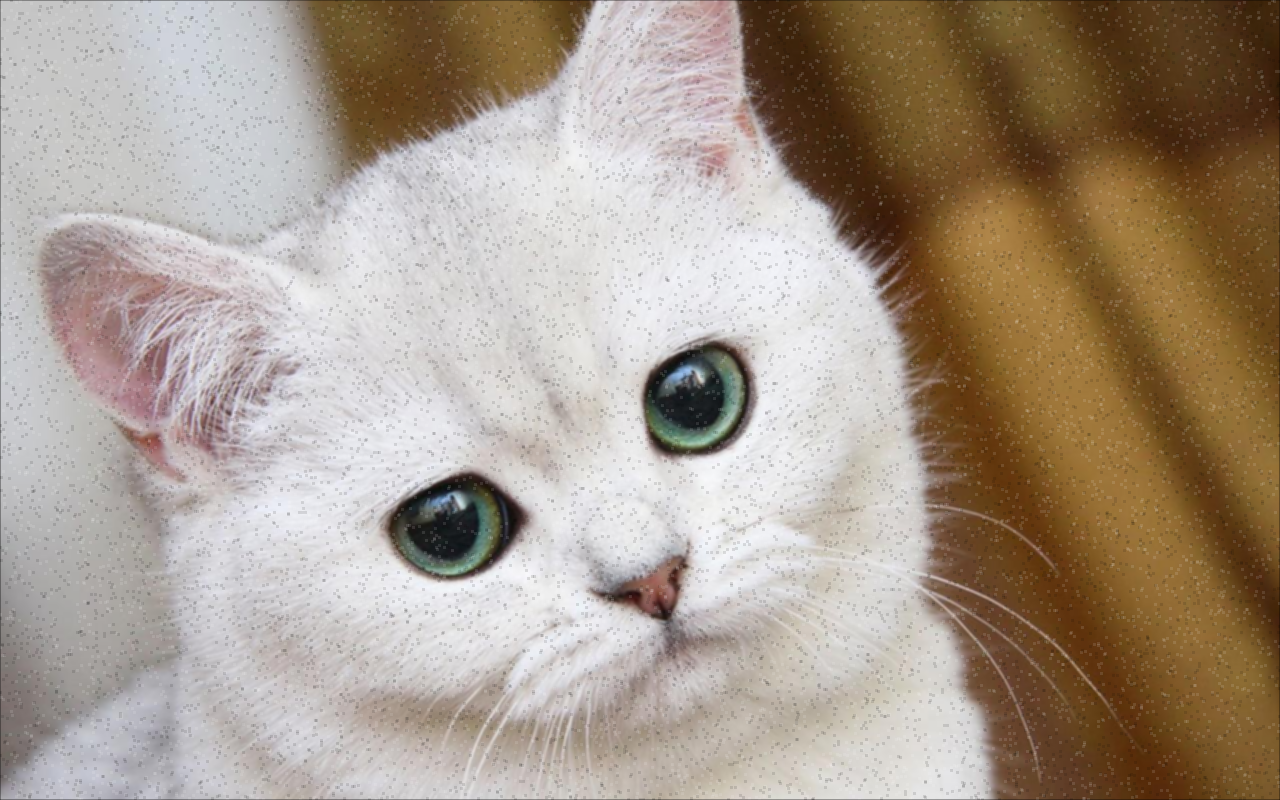
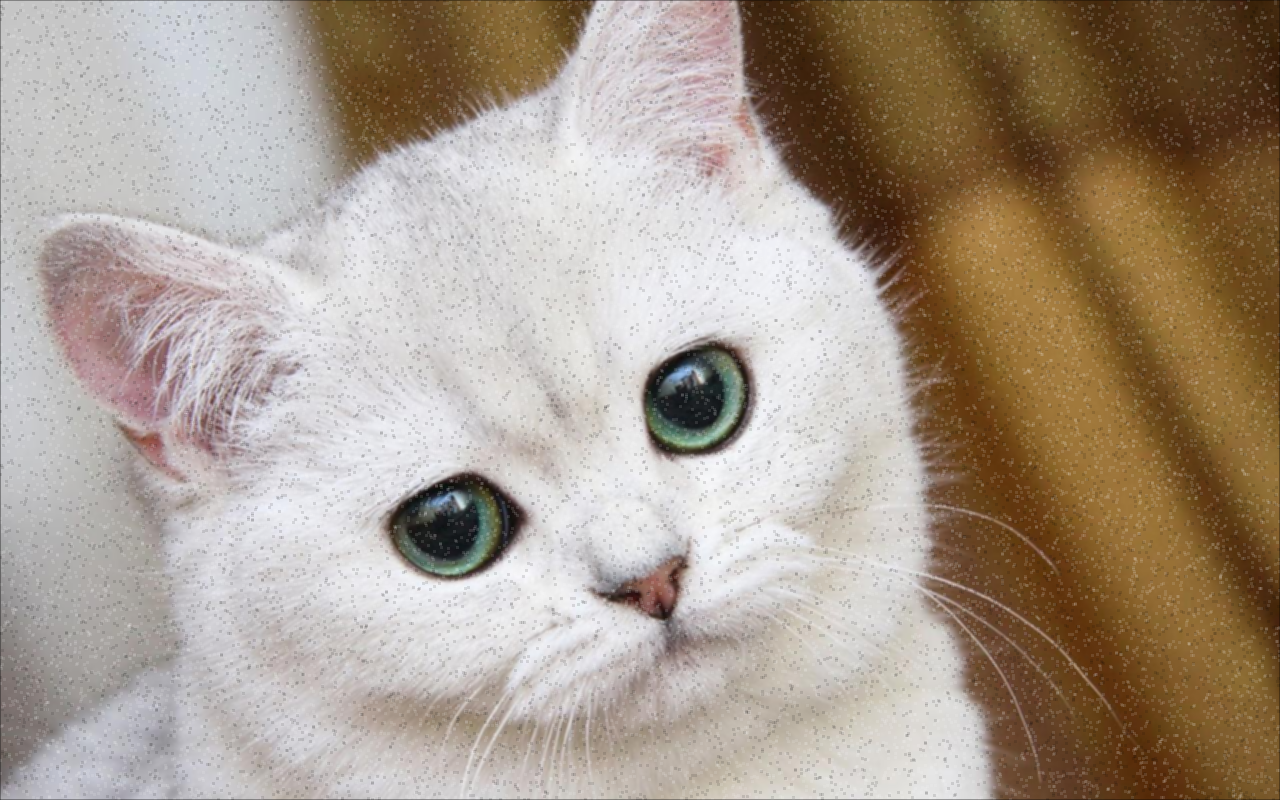
add filter radius

diff --git a/lab-2/noise.py b/lab-2/noise.py
@@ -11,10 +11,13 @@ def init_arg_parser():
     parser = argparse.ArgumentParser()
     parser.add_argument('-path', default='input/cat.png', type=str)
     parser.add_argument('-intensity', default=1.0, type=float)
+    parser.add_argument('-radius', default=1, type=int)
     return parser
 
 
 def salt_and_pepper_noise(image, intensity):
+    if intensity > 50:
+        raise ValueError('Too high noise intensity')
     result_image = image.copy()
     noise_map = numpy.random.uniform(0, 100, (image.shape[0], image.shape[1]))
     for y in range(image.shape[0]):
@@ -26,15 +29,17 @@ def salt_and_pepper_noise(image, intensity):
     return result_image
 
 
-def averaging_filter(image):
+def averaging_filter(image, radius):
+    if radius < 1:
+        raise ValueError('Wrong radius')
     result_image = numpy.zeros((image.shape[0], image.shape[1], 3), numpy.ubyte)
     for y in range(image.shape[0]):
         for x in range(image.shape[1]):
             blue = 0
             green = 0
             red = 0
-            for local_y in range(max(0, y - 1), min(image.shape[0], y + 2)):
-                for local_x in range(max(0, x - 1), min(image.shape[1], x + 2)):
+            for local_y in range(max(0, y - radius), min(image.shape[0], y + radius + 1)):
+                for local_x in range(max(0, x - radius), min(image.shape[1], x + radius + 1)):
                     blue += image[local_y, local_x, 0] / 9
                     green += image[local_y, local_x, 1] / 9
                     red += image[local_y, local_x, 2] / 9
@@ -44,15 +49,17 @@ def averaging_filter(image):
     return result_image
 
 
-def median_filter(image):
+def median_filter(image, radius):
+    if radius < 1:
+        raise ValueError('Wrong radius')
     result_image = numpy.zeros((image.shape[0], image.shape[1], 3), numpy.ubyte)
     for y in range(image.shape[0]):
         for x in range(image.shape[1]):
             blue = []
             green = []
             red = []
-            for local_y in range(max(0, y - 1), min(image.shape[0], y + 2)):
-                for local_x in range(max(0, x - 1), min(image.shape[1], x + 2)):
+            for local_y in range(max(0, y - radius), min(image.shape[0], y + radius + 1)):
+                for local_x in range(max(0, x - radius), min(image.shape[1], x + radius + 1)):
                     blue.append(image[local_y, local_x, 0])
                     green.append(image[local_y, local_x, 1])
                     red.append(image[local_y, local_x, 2])
@@ -70,17 +77,17 @@ def main(args):
     cv2.imwrite('output/noised.png', noised_image)
 
     begin_median = time.time()
-    manual_median = median_filter(noised_image)
+    manual_median = median_filter(noised_image, args.radius)
     cv2.imwrite('output/manual_median.png', manual_median)
     end_median = time.time()
 
     begin_averaging = time.time()
-    manual_averaging = averaging_filter(noised_image)
+    manual_averaging = averaging_filter(noised_image, args.radius)
     cv2.imwrite('output/manual_averaging.png', manual_averaging)
     end_averaging = time.time()
 
     begin_cv2 = time.time()
-    cv2_image = cv2.medianBlur(noised_image, 3)
+    cv2_image = cv2.medianBlur(noised_image, 1 + args.radius * 2)
     cv2.imwrite('output/cv2_median.png', cv2_image)
     end_cv2 = time.time()
 

diff --git a/lab-2/readme.md b/lab-2/readme.md
@@ -4,3 +4,5 @@
 
 **Параметры**
 - -path - путь к изображению
+- -intensity - интенсивность шума
+- -radius - радиус ядра фильтра
